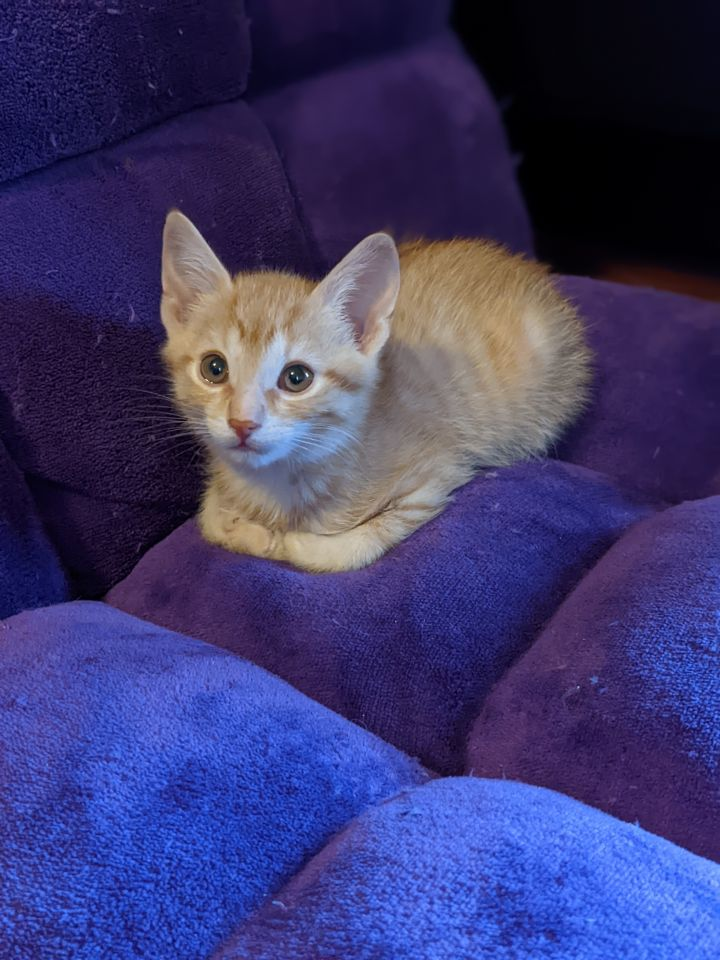
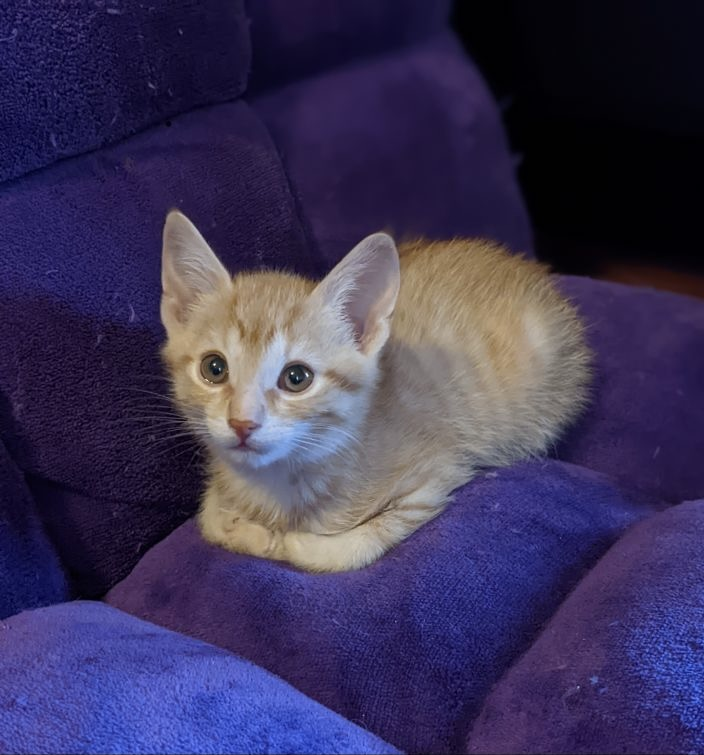
make homepage pets images responsive

diff --git a/client/src/Components/HomepagePets.jsx b/client/src/Components/HomepagePets.jsx
@@ -14,8 +14,8 @@ export default function HomepagePets() {
               <img
                 class="card-img-top"
                 src="./images/petexample1.jpeg"
-                height="250"
-                alt="Card image cap"
+                height="fit-content"
+                alt="black dog"
               />
               <div class="card-body">
                 <h5 class="card-title">Sausage</h5>
@@ -35,8 +35,8 @@ export default function HomepagePets() {
               <img
                 class="card-img-top"
                 src="./images/examplepet2.jpeg"
-                height="250"
-                alt="Card image cap"
+                height="fit-content"
+                alt="black and white cat"
               />
               <div class="card-body">
                 <h5 class="card-title">Lester Sylvester</h5>
@@ -56,8 +56,8 @@ export default function HomepagePets() {
               <img
                 class="card-img-top"
                 src="./images/petexample3.jpeg"
-                height="250"
-                alt="Card image cap"
+                height="fit-content"
+                alt="orange cat"
               />
               <div class="card-body">
                 <h5 class="card-title">Gingerbread</h5>
